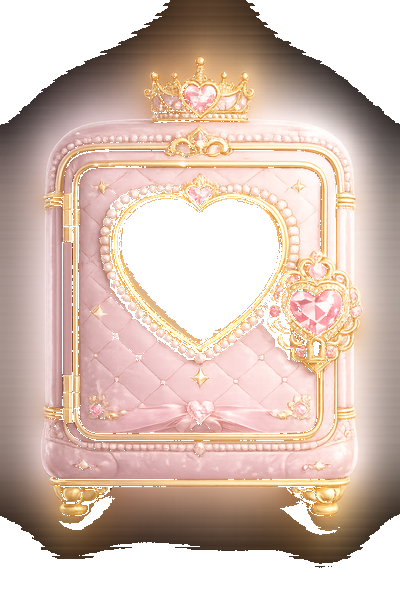
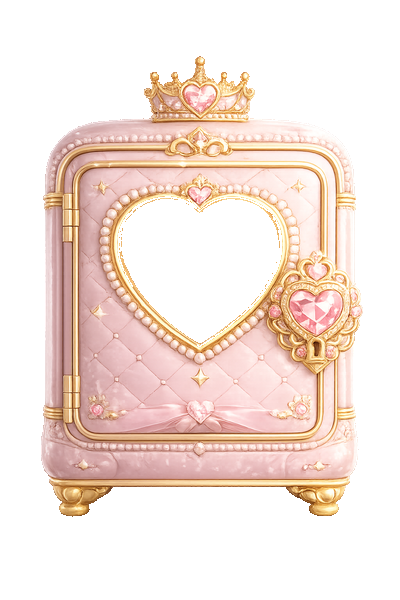
fix: 플러드필 배경 제거 + 하트 정확한 바운딩 박스 (60,48 143x147)

diff --git a/index.html b/index.html
@@ -62,7 +62,7 @@ body{font-family:'Gowun Batang','Noto Sans KR',-apple-system,sans-serif;backgrou
 .safe-assembly{position:relative;width:240px;height:360px;margin:0 auto}
 /* Reward image BEHIND the frame — shows through transparent heart hole */
 .safe-img-layer{position:absolute;inset:0;z-index:1;pointer-events:none}
-.safe-img-layer img{position:absolute;top:60px;left:48px;width:143px;height:208px;object-fit:cover;object-position:center;transition:filter .5s}
+.safe-img-layer img{position:absolute;top:60px;left:48px;width:143px;height:147px;object-fit:cover;object-position:center;transition:filter .5s}
 /* PNG safe frame ON TOP (has transparent heart hole) */
 .safe-frame-img{position:absolute;inset:0;width:100%;height:100%;z-index:2;pointer-events:none;object-fit:contain;transition:filter .4s}
 /* Stage tints for frame — no grayscale, keep original colors */
